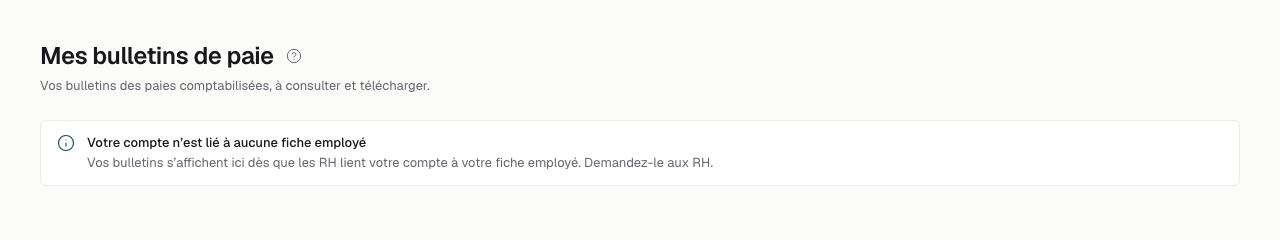
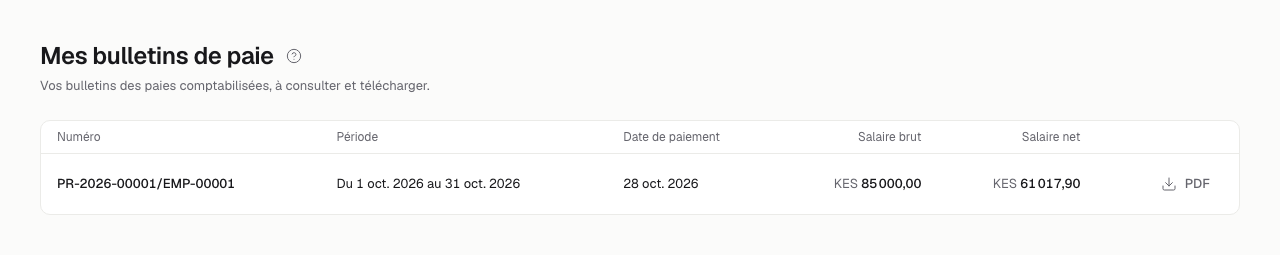
docs(manual): demo data for invoices, payments, budget, loan and credit limit request; pictures for the new topics; re-capture HR self-service and my payslips (ACC-09, ACC-10, ACC-16, PAY-13, WF-01, AUTH-12)
Tested: php -l on the sections, demo-tenant run (idempotent), check:manual, check:i18n, Manual unit tests.

diff --git a/api/app/Core/Manual/Demo/Sections/AccountingMoreSection.php b/api/app/Core/Manual/Demo/Sections/AccountingMoreSection.php
@@ -1,0 +1,74 @@
+<?php
+
+namespace App\Core\Manual\Demo\Sections;
+
+use App\Core\Manual\Demo\DemoData;
+
+/** A bank account, a posted customer invoice and supplier bill, a receipt allocated to the invoice, and an operating budget (ACC-09, ACC-10, ACC-16). */
+class AccountingMoreSection
+{
+    public function run(DemoData $demo): void
+    {
+        $api = $demo->api->as('accountant');
+        $base = "companies/{$demo->ids['company']}/accounting";
+
+        if ($api->rows("{$base}/documents") !== []) {
+            return;
+        }
+
+        $accounts = collect($api->rows("{$base}/accounts"));
+
+        if ($accounts->isEmpty()) {
+            return;
+        }
+
+        $code = fn (string $code) => $accounts->firstWhere('code', $code)['id'];
+        $parties = collect($api->rows('parties'));
+        $customer = $parties->first(fn ($party) => in_array('customer', $party['roles'] ?? [], true));
+        $supplier = $parties->first(fn ($party) => in_array('supplier', $party['roles'] ?? [], true));
+        $currency = $demo->ids['currency'];
+
+        $bank = collect($api->rows("{$base}/bank-accounts"))->first()
+            ?? $api->post("{$base}/bank-accounts", ['name' => 'Equity Bank current account', 'kind' => 'bank', 'account_id' => $code('1120'), 'currency' => $currency, 'bank_name' => 'Equity Bank', 'account_number' => '0170192837465'])['data'];
+
+        $invoice = null;
+
+        if ($customer !== null) {
+            $invoice = $api->post("{$base}/documents", [
+                'kind' => 'customer_invoice', 'party_id' => $customer['id'], 'issue_date' => now()->subDays(12)->format('Y-m-d'), 'currency' => $currency,
+                'lines' => [
+                    ['description' => 'Wholesale supply, October', 'account_id' => $code('4100'), 'qty' => '4', 'unit_price' => '12500'],
+                    ['description' => 'Delivery', 'account_id' => $code('4100'), 'qty' => '1', 'unit_price' => '3500'],
+                ],
+            ])['data'];
+            $api->post("accounting/documents/{$invoice['id']}/post");
+        }
+
+        if ($supplier !== null) {
+            $bill = $api->post("{$base}/documents", [
+                'kind' => 'supplier_invoice', 'party_id' => $supplier['id'], 'issue_date' => now()->subDays(6)->format('Y-m-d'), 'currency' => $currency,
+                'supplier_reference' => 'SUP-INV-4471',
+                'lines' => [['description' => 'Cleaning and packaging supplies', 'account_id' => $code('6600'), 'qty' => '1', 'unit_price' => '24000']],
+            ])['data'];
+            $api->post("accounting/documents/{$bill['id']}/post");
+        }
+
+        if ($customer !== null && $invoice !== null) {
+            $api->post("{$base}/payments", [
+                'kind' => 'receipt', 'party_id' => $customer['id'], 'bank_account_id' => $bank['id'], 'date' => now()->subDays(3)->format('Y-m-d'),
+                'amount' => '30000', 'reference' => 'MPESA-QJK82H1', 'allocations' => [['document_id' => $invoice['id'], 'amount' => '30000']],
+            ]);
+        }
+
+        $budget = $api->post("{$base}/budgets", ['name' => 'Operating budget', 'fiscal_year' => (int) now()->format('Y')])['data'];
+        $cells = [];
+
+        foreach (range(1, 12) as $month) {
+            $cells[] = ['account_id' => $code('4100'), 'month' => $month, 'amount' => '480000'];
+            $cells[] = ['account_id' => $code('6200'), 'month' => $month, 'amount' => '180000'];
+            $cells[] = ['account_id' => $code('6100'), 'month' => $month, 'amount' => '45000'];
+        }
+
+        $api->put("accounting/budgets/{$budget['id']}/cells", ['cells' => $cells]);
+    }
+}

diff --git a/api/app/Core/Manual/Demo/Sections/ContactsSection.php b/api/app/Core/Manual/Demo/Sections/ContactsSection.php
@@ -1,0 +1,38 @@
+<?php
+
+namespace App\Core\Manual\Demo\Sections;
+
+use App\Core\Manual\Demo\DemoData;
+
+/** A customer with a credit limit and a request to raise it, waiting for approval (WF-01). */
+class ContactsSection
+{
+    public function run(DemoData $demo): void
+    {
+        $api = $demo->api->as('accountant');
+
+        if ($api->rows('credit-limit-changes') !== []) {
+            return;
+        }
+
+        $customers = collect($demo->api->rows('parties'))->filter(fn ($party) => in_array('customer', $party['roles'] ?? [], true));
+        $customer = $customers->first(fn ($party) => ($party['credit_limit'] ?? null) !== null);
+
+        if ($customer === null && $customers->isNotEmpty()) {
+            // The owner may set a limit directly (WF-01); a raise then goes through a request.
+            $first = $customers->first();
+            $demo->api->patch("parties/{$first['id']}", ['credit_limit' => '100000', 'credit_limit_currency' => $demo->ids['currency']]);
+            $customer = $demo->api->get("parties/{$first['id']}")['data'];
+        }
+
+        if ($customer === null) {
+            return;
+        }
+
+        $api->post('credit-limit-changes', [
+            'party_id' => $customer['id'],
+            'requested_limit' => ['amount_minor' => '30000000', 'currency' => $customer['credit_limit']['currency']],
+            'reason' => 'Orders have doubled and they pay within 30 days.',
+        ]);
+    }
+}

diff --git a/api/app/Core/Manual/Demo/DemoData.php b/api/app/Core/Manual/Demo/DemoData.php
@@ -23,6 +23,9 @@ class DemoData
     /** Sections of the user manual's second batch: procurement beyond the basics, stores, fixed assets and manufacturing. */
     private const MANUAL_BATCH_B = ['procurement_more', 'stores', 'fixed_assets', 'manufacturing'];
 
+    /** Sections for the pages the manual's back-office topics read: invoices, payments and a budget, a staff advance, a credit limit request. */
+    private const MANUAL_BACKLOG_E2 = ['accounting_more', 'payroll_more', 'contacts'];
+
     /** @var array<string, mixed> */
     public array $ids = [];
 
@@ -33,7 +36,7 @@ class DemoData
     {
         $this->base();
 
-        foreach (['inventory', 'procurement', 'pos', 'accounting', 'hr', 'payroll', 'hotel', 'restaurant', 'pharmacy', 'vansales', 'fuel', 'salon', 'crm', 'loyalty', 'ecommerce', 'approvals', ...self::MANUAL_BATCH_B] as $name) {
+        foreach (['inventory', 'procurement', 'pos', 'accounting', 'hr', 'payroll', 'hotel', 'restaurant', 'pharmacy', 'vansales', 'fuel', 'salon', 'crm', 'loyalty', 'ecommerce', 'approvals', ...self::MANUAL_BATCH_B, ...self::MANUAL_BACKLOG_E2] as $name) {
             $this->section($name, $only);
         }
 

diff --git a/api/app/Core/Manual/Demo/Sections/PayrollMoreSection.php b/api/app/Core/Manual/Demo/Sections/PayrollMoreSection.php
@@ -1,0 +1,30 @@
+<?php
+
+namespace App\Core\Manual\Demo\Sections;
+
+use App\Core\Manual\Demo\DemoData;
+
+/** A salary advance to one employee, deducted by the next payroll runs (PAY-13). */
+class PayrollMoreSection
+{
+    public function run(DemoData $demo): void
+    {
+        $api = $demo->api->as('payroll_officer');
+
+        if ($api->rows('payroll/loans') !== []) {
+            return;
+        }
+
+        $employee = $api->rows('payroll/employees')[1] ?? null;
+
+        if ($employee === null) {
+            return;
+        }
+
+        $api->post('payroll/loans', [
+            'payroll_employee_id' => $employee['id'], 'kind' => 'advance', 'reference' => 'ADV-001', 'principal_minor' => '3000000',
+            'instalment_minor' => '500000', 'currency' => $demo->ids['currency'], 'disbursed_on' => now()->startOfMonth()->format('Y-m-d'),
+            'note' => 'Advance for school fees, repaid over six months',
+        ]);
+    }
+}

diff --git a/docs/manual/README.md b/docs/manual/README.md
@@ -130,3 +130,7 @@ Pages for the business's own customers or suppliers (the online booking page, th
 ## Demo data for procurement, stores, fixed assets and manufacturing
 
 `manual:demo-tenant --only=procurement_more`, `--only=stores`, `--only=fixed_assets` and `--only=manufacturing` fill those modules (an approved requisition, a request for quotation with quotes, a published tender, a received purchase order with a matched invoice, a store requisition issued and part returned, assets with two depreciation runs, a BOM and a production order in progress). Approvals are created by a queued listener; the command runs the queue inline, so no worker is needed. The supplier portal pages are signed-out pages and have no picture.
+
+## Demo data for contacts, invoices, payroll loans and HR links
+
+`manual:demo-tenant --only=accounting_more`, `--only=payroll_more` and `--only=contacts` add a bank account, a posted invoice and bill, a receipt, an operating budget, a salary advance and a credit limit request (repeat `--only` for several). The `hr` section links the demo owner to the first employee through HR's own API, as the HR officer, so the self-service and "my payslips" pictures show a person instead of the "not linked" notice.
